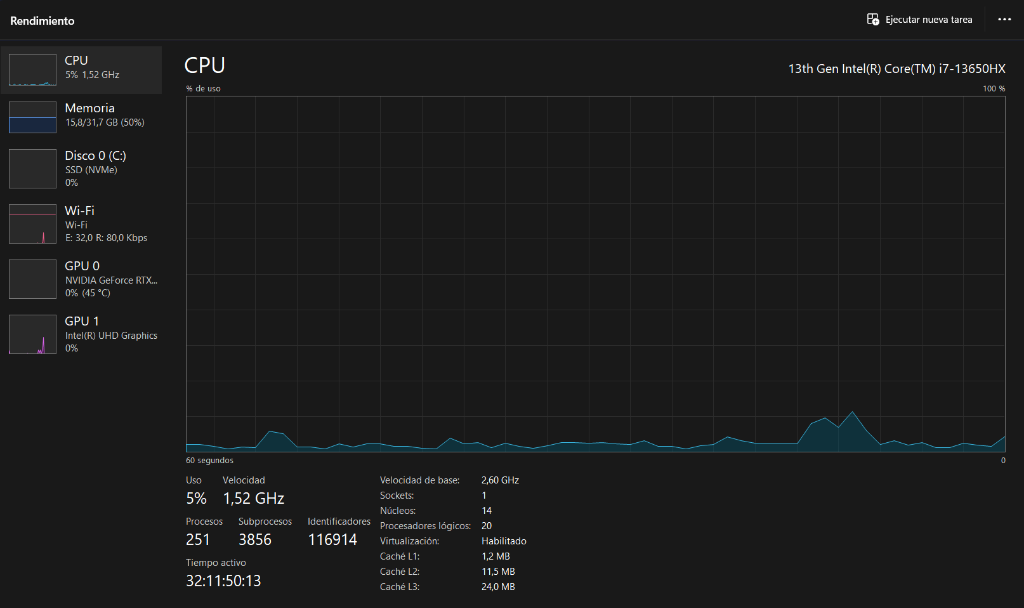
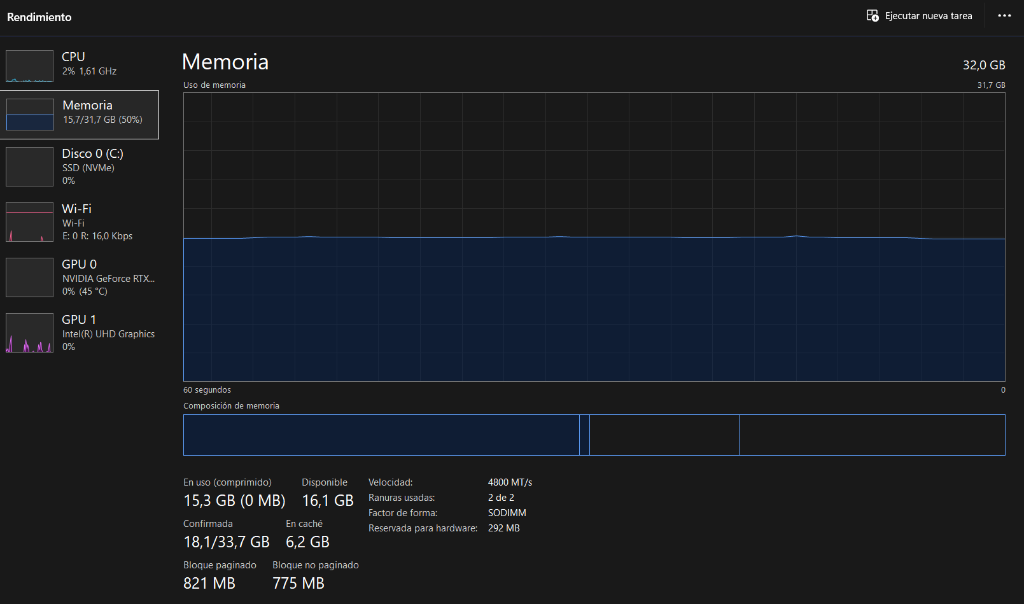
docs & chore: fix screenshot mappings, align demo runner logging order, and update safety tests

diff --git a/src/demo/runner.ts b/src/demo/runner.ts
@@ -29,8 +29,26 @@ async function main() {
   const logger = new StructuredLogger(config.logging.dir);
   const metrics = new MetricsCollector();
 
+  const logFile = logger.startSession('demo_run');
+
   try {
-    await modelManager.loadAll();
+    console.log('\n═══ Loading QVAC Base Models ═══');
+    const llmStartTime = Date.now();
+    await modelManager.loadLLM();
+    logger.logEvent('model_load', {
+      model: modelManager.getModelFilename('llm'),
+      duration_ms: Date.now() - llmStartTime,
+      status: 'success'
+    });
+
+    const embedStartTime = Date.now();
+    await modelManager.loadEmbeddings();
+    logger.logEvent('model_load', {
+      model: modelManager.getModelFilename('embeddings'),
+      duration_ms: Date.now() - embedStartTime,
+      status: 'success'
+    });
+    console.log('═══ Base models loaded ═══\n');
 
     const storePath = path.resolve(config.rag.dataDir, 'hyperdb');
     const store = new Corestore(storePath);
@@ -59,8 +77,6 @@ async function main() {
 
     const retriever = new RAGRetriever(modelManager, config, rag);
     const orchestrator = new Orchestrator(modelManager, config, retriever);
-
-    const logFile = logger.startSession('demo_run');
 
     for (const query of DEMO_QUERIES) {
       const requestId = randomUUID();
@@ -142,19 +158,41 @@ async function main() {
       console.log('─'.repeat(80));
     }
 
-    const session = logger.endSession();
-    const csvPath = logger.exportCSV(session.filepath);
-
-    console.log(`\n📁 Logs: ${session.filepath}`);
-    console.log(`📁 CSV:  ${csvPath}`);
-    
   } catch (err) {
     console.error('\n❌ Demo run failed:', err);
     process.exit(1);
   } finally {
     try {
-      await modelManager.unloadAll();
-    } catch { /* ignore */ }
+      if (modelManager.isLoaded('embeddings')) {
+        const embedModelFile = modelManager.getModelFilename('embeddings');
+        const unloadStartTime = Date.now();
+        await modelManager.unload('embeddings');
+        logger.logEvent('model_unload', {
+          model: embedModelFile,
+          duration_ms: Date.now() - unloadStartTime,
+          status: 'success'
+        });
+      }
+      if (modelManager.isLoaded('llm')) {
+        const llmModelFile = modelManager.getModelFilename('llm');
+        const unloadStartTime = Date.now();
+        await modelManager.unload('llm');
+        logger.logEvent('model_unload', {
+          model: llmModelFile,
+          duration_ms: Date.now() - unloadStartTime,
+          status: 'success'
+        });
+      }
+    } catch (unloadErr) {
+      console.error('Failed to unload models cleanly:', unloadErr);
+    }
+
+    // End session AFTER unloads so all lifecycle events are in the same file
+    const session = logger.endSession();
+    const csvPath = logger.exportCSV(session.filepath);
+
+    console.log(`\n📁 Logs: ${session.filepath}`);
+    console.log(`📁 CSV:  ${csvPath}`);
   }
 
   console.log('\n🎉 Demo run complete!');

diff --git a/src/demo/test-safety.ts b/src/demo/test-safety.ts
@@ -164,8 +164,13 @@ async function main() {
       }
 
       // Check if disclaimers contain safety rule warnings
-      // We check if the disclaimer text starts with the warning emoji/character or matches contents
-      const safetyRuleTriggered = disclaimersReceived.some(d => d.includes('⚠️'));
+      // We check if the disclaimer text starts with the warning emoji/character or matches contents,
+      // ignoring the standard/baseline disclaimers that also contain the warning emoji.
+      const safetyRuleTriggered = disclaimersReceived.some(d => 
+        d.includes('⚠️') && 
+        !d.includes('regulated medical device') && 
+        !d.includes('dispositivo médico regulado')
+      );
       
       console.log(`   Triage Category:    ${triageCategory}`);
       console.log(`   Final Disposition:  ${finalDisposition}`);

diff --git a/src/config.ts b/src/config.ts
@@ -91,7 +91,7 @@ function envInt(key: string, fallback: number): number {
 export function loadConfig(): AppConfig {
   loadEnv();
   const modelDir = resolve(env('MODEL_DIR', './models'));
-  const llmFile = env('LLM_MODEL_FILE', 'MedPsy-4B-Q4_K_M.gguf');
+  const llmFile = env('LLM_MODEL_FILE', 'medpsy-4b-q4_k_m-imat.gguf');
   const embedFile = env('EMBED_MODEL_FILE', 'nomic-embed-text-v1.5.Q4_K_M.gguf');
 
   const config: AppConfig = {

diff --git a/EVIDENCE.md b/EVIDENCE.md
@@ -26,11 +26,14 @@ This executes a fixed battery of 5 queries and generates structured logs in the 
 
 | ID | Type | Query |
 |----|------|-------|
-| tech-01 | Technical | SpO2 probe-off errors on patient monitor |
-| med-01 | Medical | Clinical risks of incorrect ventilator tidal volumes |
-| tech-02 | Technical | Infusion pump occlusion alarm troubleshooting |
-| med-02 | Medical | Defibrillator impedance importance |
-| other-01 | Other | Greeting (edge case) |
+| tech-01 | Technical | SpO2 readings on our patient monitor are showing intermittent "probe off" errors even though the sensor is properly connected to the patient. What should I check? |
+| tech-02 | Technical | Our infusion pump is showing an "occlusion" alarm but the IV line appears completely clear with no visible kinks. How do I troubleshoot this? |
+| tech-03 | Technical | I am getting an error code E-22 on the patient monitor. What does this mean and how do I fix it? |
+| tech-04 | Technical | The monitor turns on but powers off randomly after 30 seconds to 2 minutes. The battery shows 80% charge. |
+| tech-05 | Technical | The SpO2 module calibration failed verification during preventive maintenance. The readings are out of tolerance by 4%. |
+| tech-06 | Technical | The alarm limits reset to factory defaults every time the device is power cycled. Is this normal? |
+| tech-07-es | Technical (ES) | La bomba marca oclusión pero la línea está libre y los settings de presión de oclusión están configurados al mínimo. |
+| med-01 | Clinical (Safety) | What are the clinical risks if a mechanical ventilator delivers incorrect tidal volumes to a patient? Why is this dangerous? |
 
 ---
 
@@ -45,7 +48,7 @@ Each line is a JSON object with the following fields:
 | `timestamp` | string | ISO 8601 timestamp of the request |
 | `request_id` | string | UUID identifying the request |
 | `agent` | string | Agent that handled the query: `technical`, `medical`, or `router` |
-| `model` | string | Exact model filename used (e.g., `MedPsy-4B-Q4_K_M.gguf`) |
+| `model` | string | Exact model filename used (e.g., `medpsy-4b-q4_k_m-imat.gguf`) |
 | `query` | string | The user's original query text |
 | `intent` | string | Classified intent: `technical_device_issue`, `medical_educational_context`, or `other` |
 | `prompt_tokens` | number | Number of tokens in the prompt sent to the model |
@@ -64,7 +67,7 @@ Each line is a JSON object with the following fields:
   "timestamp": "2026-06-15T10:30:00.000Z",
   "request_id": "a1b2c3d4-e5f6-7890-abcd-ef1234567890",
   "agent": "technical",
-  "model": "MedPsy-4B-Q4_K_M.gguf",
+  "model": "medpsy-4b-q4_k_m-imat.gguf",
   "query": "The SpO2 readings on our patient monitor are showing intermittent 'probe off' errors...",
   "intent": "technical_device_issue",
   "prompt_tokens": 1250,